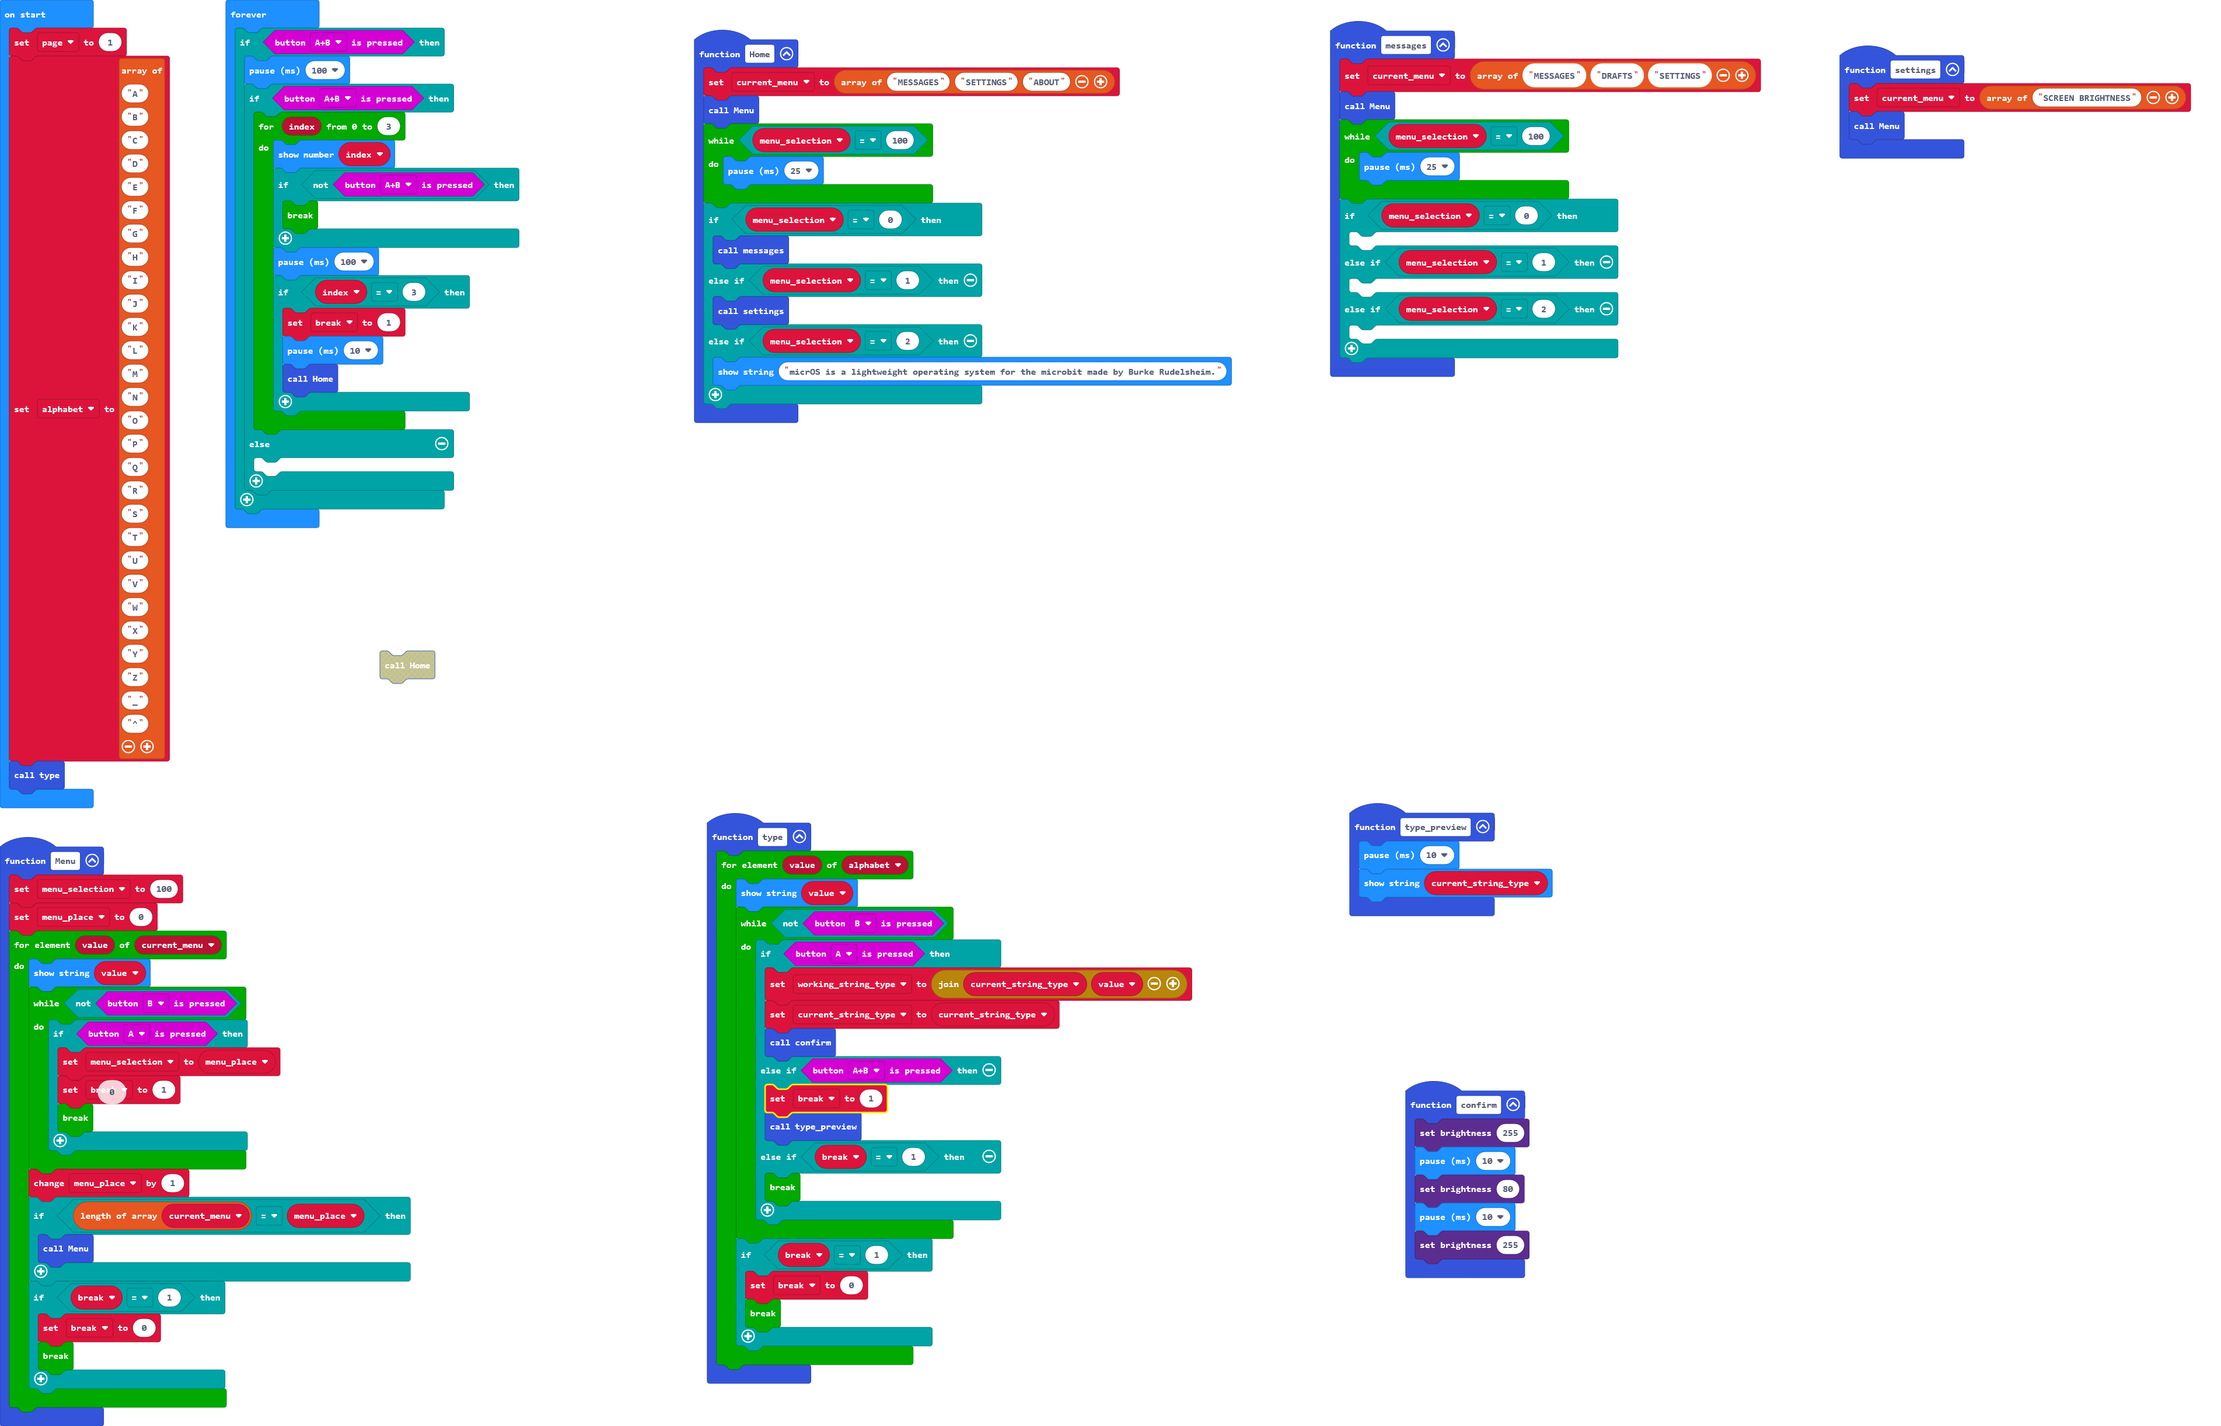
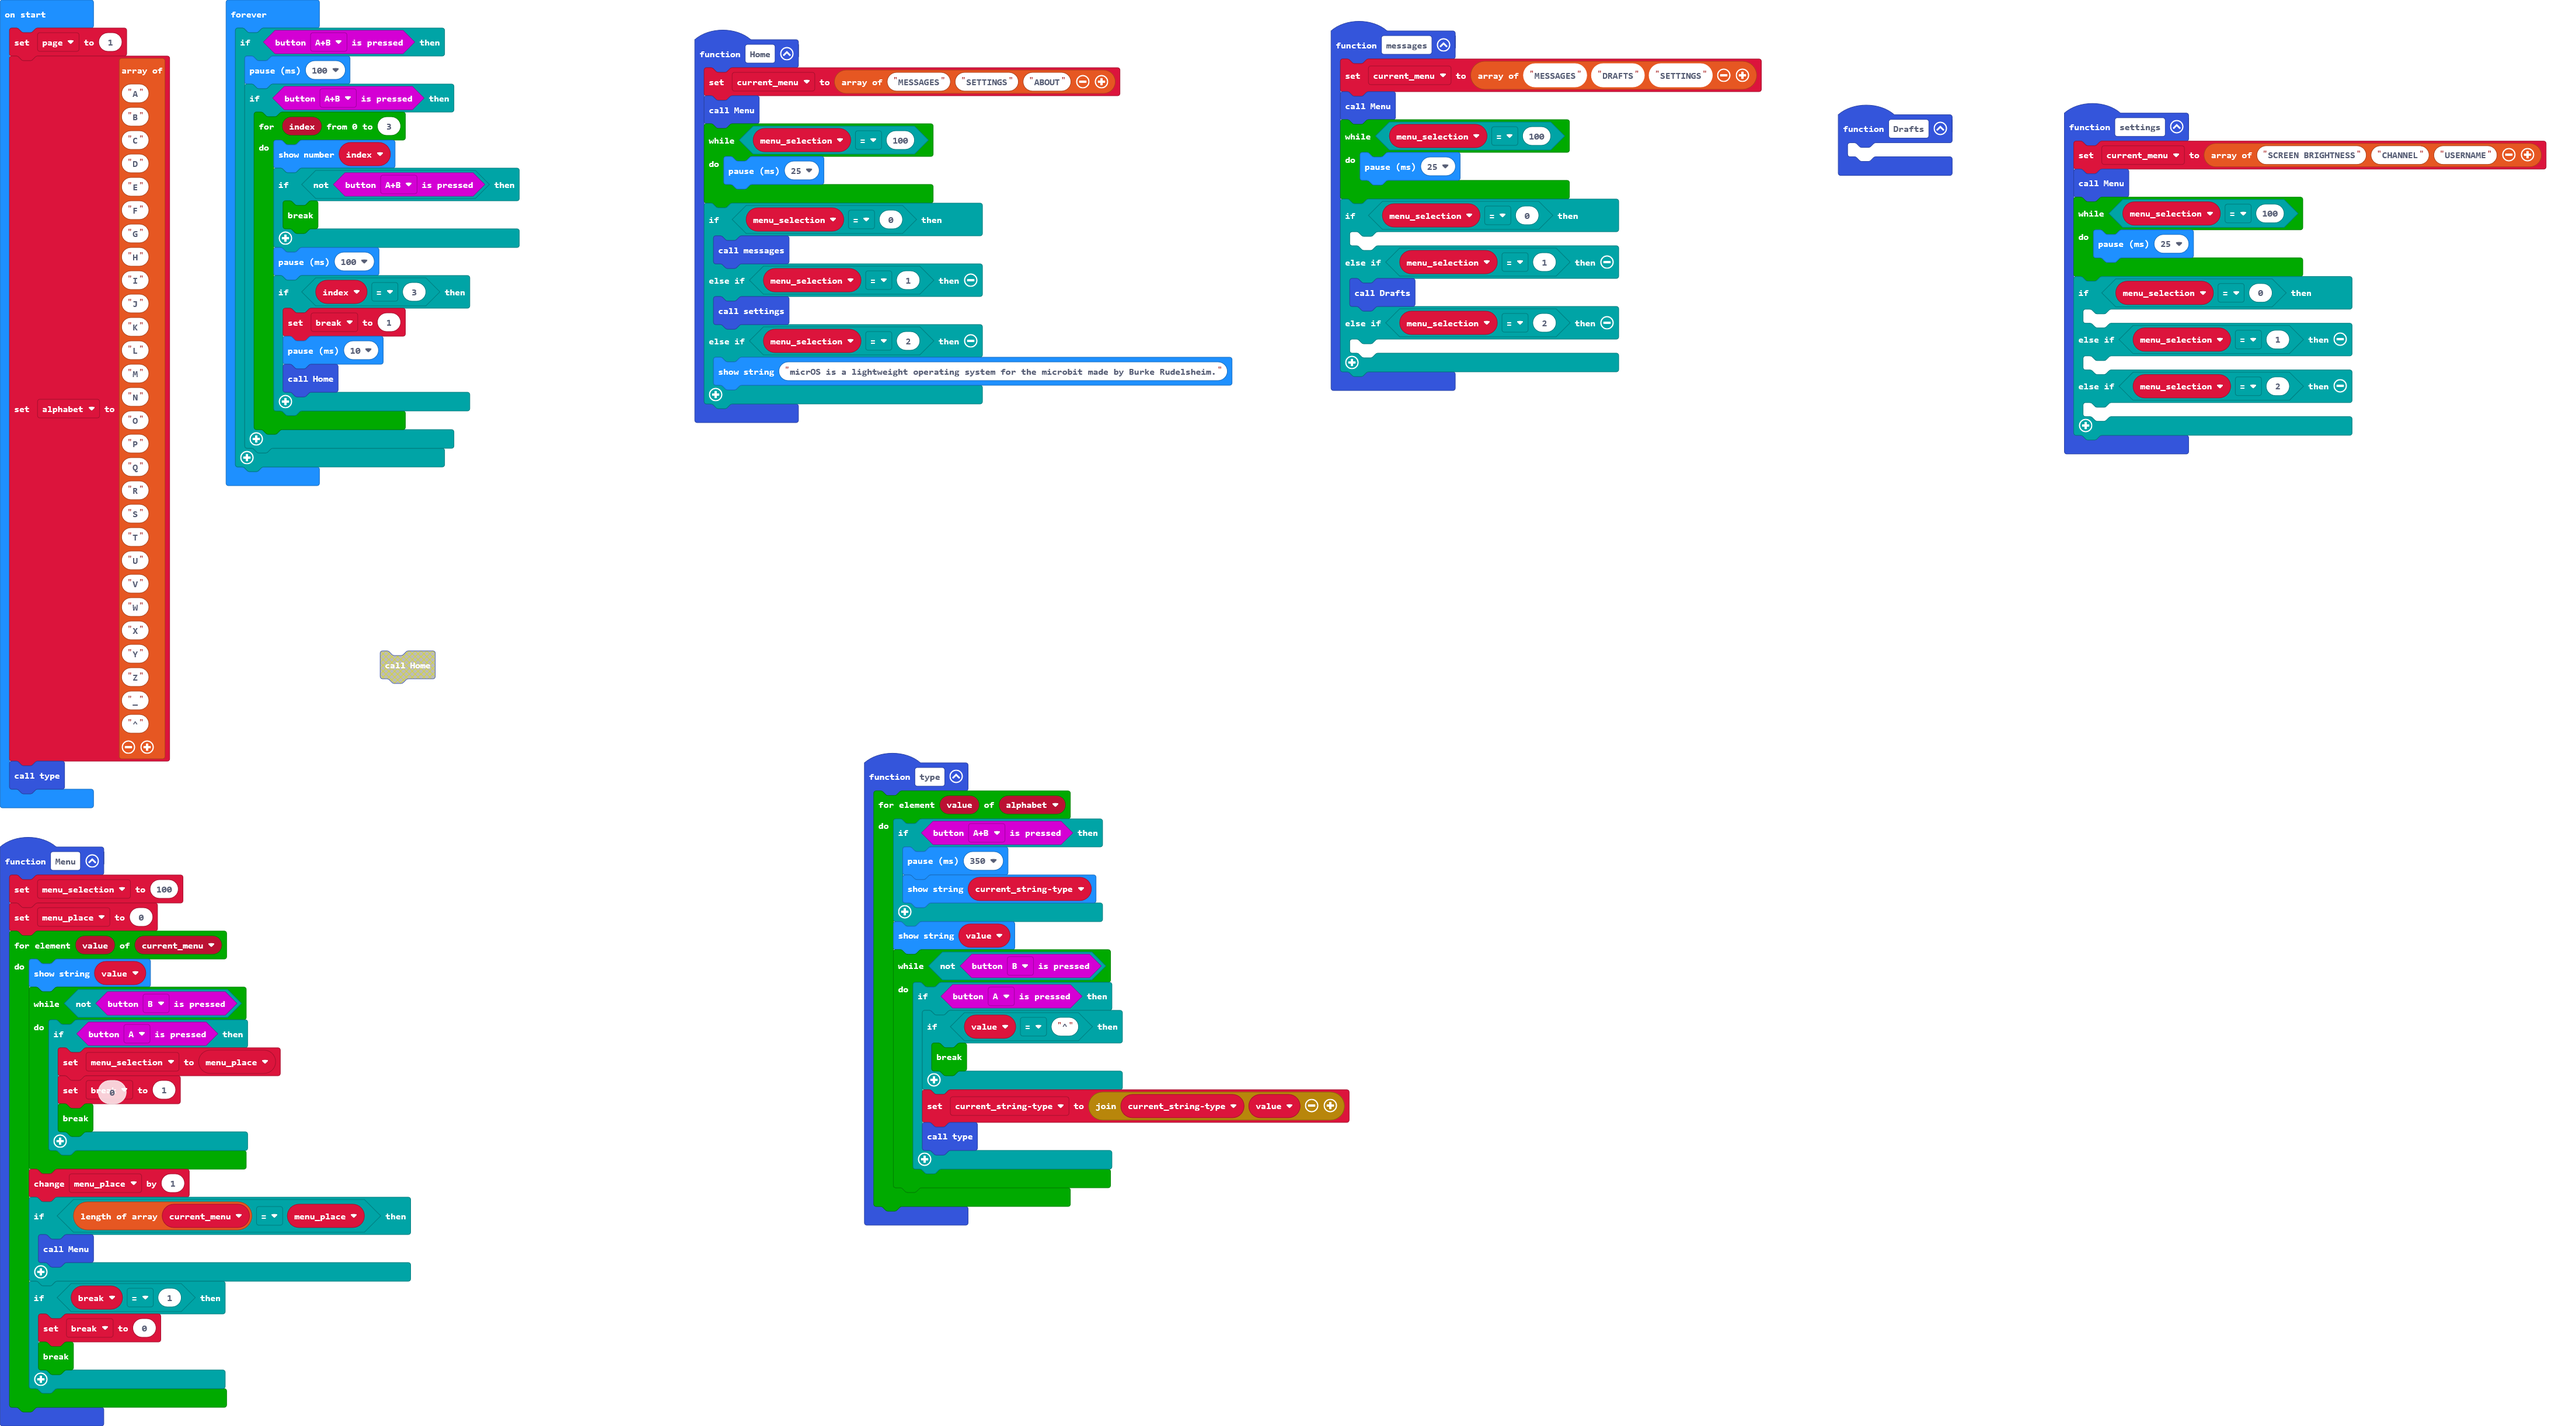
Update main.blocks, main.ts

diff --git a/main.ts b/main.ts
@@ -1,10 +1,3 @@
-function confirm () {
-    led.setBrightness(255)
-    basic.pause(10)
-    led.setBrightness(80)
-    basic.pause(10)
-    led.setBrightness(255)
-}
 function Home () {
     current_menu = ["MESSAGES", "SETTINGS", "ABOUT"]
     Menu()
@@ -19,16 +12,8 @@ function Home () {
         basic.showString("micrOS is a lightweight operating system for the microbit made by Burke Rudelsheim.")
     }
 }
-function type_preview () {
-    basic.pause(10)
-    basic.showString("" + (current_string_type))
-}
 function settings () {
-    current_menu = ["SCREEN BRIGHTNESS"]
-    Menu()
-}
-function messages () {
-    current_menu = ["MESSAGES", "DRAFTS", "SETTINGS"]
+    current_menu = ["SCREEN BRIGHTNESS", "CHANNEL", "USERNAME"]
     Menu()
     while (menu_selection == 100) {
         basic.pause(25)
@@ -41,24 +26,38 @@ function messages () {
     	
     }
 }
+function Drafts () {
+	
+}
+function messages () {
+    current_menu = ["MESSAGES", "DRAFTS", "SETTINGS"]
+    Menu()
+    while (menu_selection == 100) {
+        basic.pause(25)
+    }
+    if (menu_selection == 0) {
+    	
+    } else if (menu_selection == 1) {
+        Drafts()
+    } else if (menu_selection == 2) {
+    	
+    }
+}
 function _type () {
     for (let value of alphabet) {
-        basic.showString("" + (value))
+        if (input.buttonIsPressed(Button.AB)) {
+            basic.pause(350)
+            basic.showString(current_stringtype)
+        }
+        basic.showString(value)
         while (!(input.buttonIsPressed(Button.B))) {
             if (input.buttonIsPressed(Button.A)) {
-                working_string_type = "" + current_string_type + value
-                current_string_type = current_string_type
-                confirm()
-            } else if (input.buttonIsPressed(Button.AB)) {
-                _break = 1
-                type_preview()
-            } else if (_break == 1) {
-                break;
+                if (value == "^") {
+                    break;
+                }
+                current_stringtype = "" + current_stringtype + value
+                _type()
             }
-        }
-        if (_break == 1) {
-            _break = 0
-            break;
         }
     }
 }
@@ -84,10 +83,9 @@ function Menu () {
         }
     }
 }
-let menu_place = 0
-let working_string_type = ""
 let _break = 0
-let current_string_type = 0
+let menu_place = 0
+let current_stringtype = ""
 let menu_selection = 0
 let current_menu: string[] = []
 let alphabet: string[] = []
@@ -110,8 +108,6 @@ basic.forever(function () {
                     Home()
                 }
             }
-        } else {
-        	
         }
     }
 })
